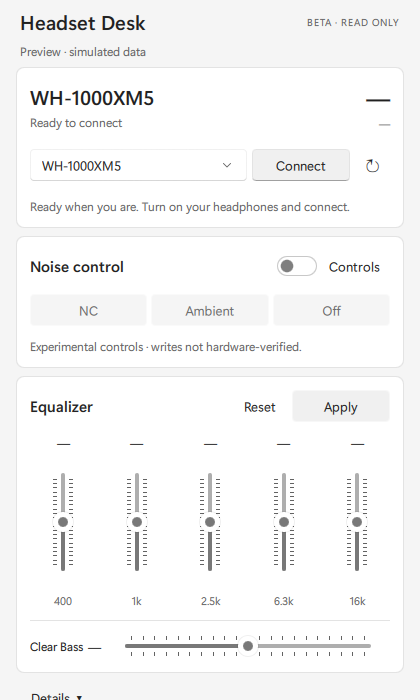
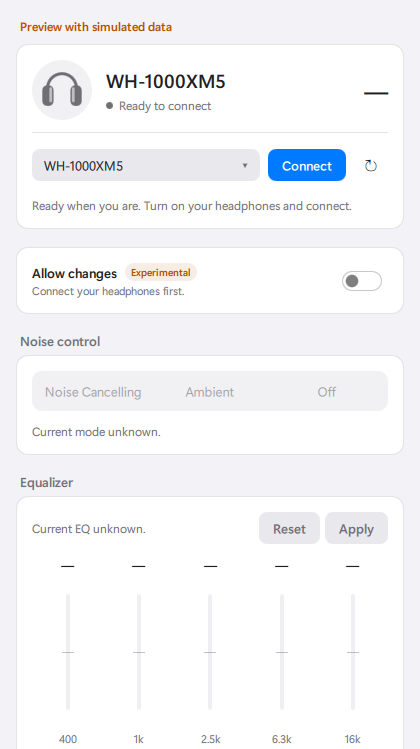
Point README at 0.4.0 beta with Windows screenshots from the release build
Drop the font-less offscreen test capture from validation bundles.

diff --git a/README.md b/README.md
@@ -2,17 +2,17 @@
 
 A Windows 11 desktop app for **Sony WH-1000XM5** and **WH-CH720N**: battery and firmware, noise control, five-band EQ and Clear Bass, with a system tray.
 
-[![Windows build](https://github.com/ashwinpr15/headset-desk/actions/workflows/windows.yml/badge.svg)](https://github.com/ashwinpr15/headset-desk/actions/workflows/windows.yml)
+[![Desktop build](https://github.com/ashwinpr15/headset-desk/actions/workflows/desktop-release.yml/badge.svg)](https://github.com/ashwinpr15/headset-desk/actions/workflows/desktop-release.yml) [![Core build](https://github.com/ashwinpr15/headset-desk/actions/workflows/windows.yml/badge.svg)](https://github.com/ashwinpr15/headset-desk/actions/workflows/windows.yml)
 
 ## Download for Windows
 
-**[Download Windows installer](https://github.com/ashwinpr15/headset-desk/releases/download/v0.3.0-beta.1/headset-desk-v0.3.0-beta.1-windows-x64-setup.exe)**
+**[Download Windows installer](https://github.com/ashwinpr15/headset-desk/releases/download/v0.4.0-beta.1/headset-desk-v0.4.0-beta.1-windows-x64-setup.exe)**
 
-[Portable ZIP](https://github.com/ashwinpr15/headset-desk/releases/download/v0.3.0-beta.1/headset-desk-v0.3.0-beta.1-windows-x64.zip) · [All versions and release notes](https://github.com/ashwinpr15/headset-desk/releases) · [Report an issue](https://github.com/ashwinpr15/headset-desk/issues)
+[Portable ZIP](https://github.com/ashwinpr15/headset-desk/releases/download/v0.4.0-beta.1/headset-desk-v0.4.0-beta.1-windows-x64.zip) · [All versions and release notes](https://github.com/ashwinpr15/headset-desk/releases) · [Report an issue](https://github.com/ashwinpr15/headset-desk/issues)
 
-Current version: **0.3.0-beta.1**. Windows 11, x64. The installer bundles the app and runtime, creates a Start menu shortcut, and supports uninstalling through Windows Settings. It installs for your Windows account without administrator rights. No Qt installation, developer tools, sign-in or internet connection is needed to run the installed app.
+Current version: **0.4.0-beta.1**. Windows 11, x64. The installer bundles the app and runtime, creates a Start menu shortcut, and supports uninstalling through Windows Settings. It installs for your Windows account without administrator rights. No Qt installation, developer tools, sign-in or internet connection is needed to run the installed app.
 
-This is an **experimental beta**. Reads have been checked on the devices listed below. Setting writes have passed offline checks but **have not been tested on physical headphones by Headset Desk**. Controls start off and must be enabled for each connection. Successful reads do not verify writes.
+This is an **experimental beta**. Reads are verified on the devices listed below. Changing settings is an opt-in: turn on **Allow changes** for each connection. The owner has used noise control on a WH-1000XM5 with the 0.3.0 beta, but writes are not yet verified across firmware or units.
 
 The app and installer are unsigned; Windows SmartScreen may warn about an unrecognized app. Download from this repository's Releases; `CHECKSUMS.txt` accompanies the assets. No firmware updates or power commands are offered.
 
@@ -20,30 +20,30 @@ The app and installer are unsigned; Windows SmartScreen may warn about an unreco
 
 1. Download the installer, run it, then open **Headset Desk** from Start. Alternatively, extract the **entire** portable ZIP and open `headset-desk.exe` inside its folder.
 2. Pair your headset in Windows Bluetooth settings and turn it on. Close other headset-control tools. The app connects automatically when Windows reports a supported paired headset as active; otherwise choose **Connect**.
-3. Check the readings. To try changing settings, turn on **Controls** in the Noise control card. Changes are experimental on both models. Choose NC, Ambient or Off; Ambient has levels 1–20. Edit the five EQ bands and Clear Bass, then choose **Apply**. **Reset** discards unsent EQ edits.
+3. Check the readings. To change settings, turn on **Allow changes**. Pick Noise Cancelling, Ambient or Off; Ambient has a level from 1 to 20. Drag the five EQ bands and Clear Bass, then choose **Apply**. **Reset** discards edits you haven't applied.
 
-Every change is sent once and checked with a fresh readback. An ACK alone is insufficient. A timeout, disconnection or mismatch disables controls and reports the problem; no change is replayed. Check Sony's app if a change is uncertain. Disconnecting, switching or reconnecting clears the experimental toggle.
+Every change is sent once and confirmed by reading it back. A timeout, disconnection or mismatch turns changes off and says what happened; nothing is replayed. Disconnecting, switching headsets or reconnecting turns **Allow changes** off again.
 
 ## The app
 
-These screenshots are rendered by the actual Windows app with **simulated data**, not live readings.
+Screenshots from the released Windows build, using **simulated data**:
 
 <img src="docs/screenshots/light-100.png" alt="Headset Desk light theme, simulated data" width="360"> <img src="docs/screenshots/dark-100.png" alt="Headset Desk dark theme, simulated data" width="360">
 
-- Model, battery percentage, charging state, firmware and headset-reported codec.
-- NC / Ambient / Off; Ambient level 1–20.
-- Five EQ bands: 400 Hz, 1 kHz, 2.5 kHz, 6.3 kHz and 16 kHz, plus Clear Bass. Values −10 to +10; Apply sends custom EQ.
-- Resizable window, Windows light/dark appearance and native tray.
-- Close hides to tray and keeps the link alive. Tray **Quit** exits. Launching a second copy brings forward the first.
-- Refresh on connection, reopening and demand, plus a slow battery timer. One headset session at a time; select the other device, then Connect.
+- Model, battery with a gauge, charging state, firmware and headset-reported codec. Unknown values show a dash, never a made-up number.
+- Noise Cancelling / Ambient / Off as one segmented control; Ambient level 1–20. The headphone drawing shows the current mode.
+- Five EQ bands (400 Hz, 1 kHz, 2.5 kHz, 6.3 kHz, 16 kHz) and Clear Bass, −10 to +10, filled from 0 dB.
+- Light and dark appearance that follows Windows, resizable window, native tray, keyboard focus rings. Motion stops when Windows "Animation effects" is off.
+- Close hides to the tray and keeps the connection. Tray **Quit** exits. Launching a second copy brings the first forward.
+- Refresh on connection, on reopening and on demand, plus a slow battery check. One headset at a time.
 - No cloud account, analytics, internet updater, Windows service or launch at sign-in.
 
 ## Device evidence
 
 | Model | Physical read evidence | Noise / EQ writes |
 |---|---|---|
-| WH-1000XM5 | Firmware 2.5.1; battery 44%, charging false, reported AAC, Off, one EQ state | Experimental opt-in; hardware confidence **UNKNOWN** |
-| WH-CH720N | Firmware 1.1.4; battery 99%, charging false, reported AAC, Off, one EQ state | Experimental opt-in; hardware confidence **UNKNOWN** |
+| WH-1000XM5 | Firmware 2.5.1; battery 44%, charging false, reported AAC, Off, one EQ state | Opt-in. Owner observed Off → NC → Ambient 1 → Off confirmed by readback (0.3.0); confidence in code still **UNKNOWN** |
+| WH-CH720N | Firmware 1.1.4; battery 99%, charging false, reported AAC, Off, one EQ state | Opt-in. Owner reports it working (0.3.0), not itemised; confidence in code still **UNKNOWN** |
 
 Read evidence covers those captured states only. Charging true, NC/Ambient reads, other firmware, EQ presets/endpoints, GUI operation on hardware and long-session/reconnect behavior still need physical testing. The Off replies differ; successful reads do not establish interchangeable write behavior. Model identity comes from Windows' cached pairing name. The codec is reported by the headset, not measured from Windows audio. Renamed and other models are excluded.
 
@@ -59,7 +59,7 @@ cmake --build build-desktop --parallel 4
 ctest --test-dir build-desktop --output-on-failure
 ```
 
-[Build, deploy and package](docs/desktop-build.md). Default CMake builds the core and internal read-only diagnostics without Qt; the CLI is a development tool, not the consumer app. [Diagnostic instructions](docs/hardware-validation.md). Windows CI checks the core, protocol and diagnostics offline; local validation also checks Qt and the installer.
+[Build, deploy and package](docs/desktop-build.md). Default CMake builds the core and internal read-only diagnostics without Qt; the CLI is a development tool, not the consumer app. [Diagnostic instructions](docs/hardware-validation.md). GitHub Actions builds the desktop app with the release kit, runs every offline test, checks the bundled runtime, and installs, verifies and uninstalls the installer on each change; [details](docs/desktop-build.md#automated-builds).
 
 ## Credits and license
 
